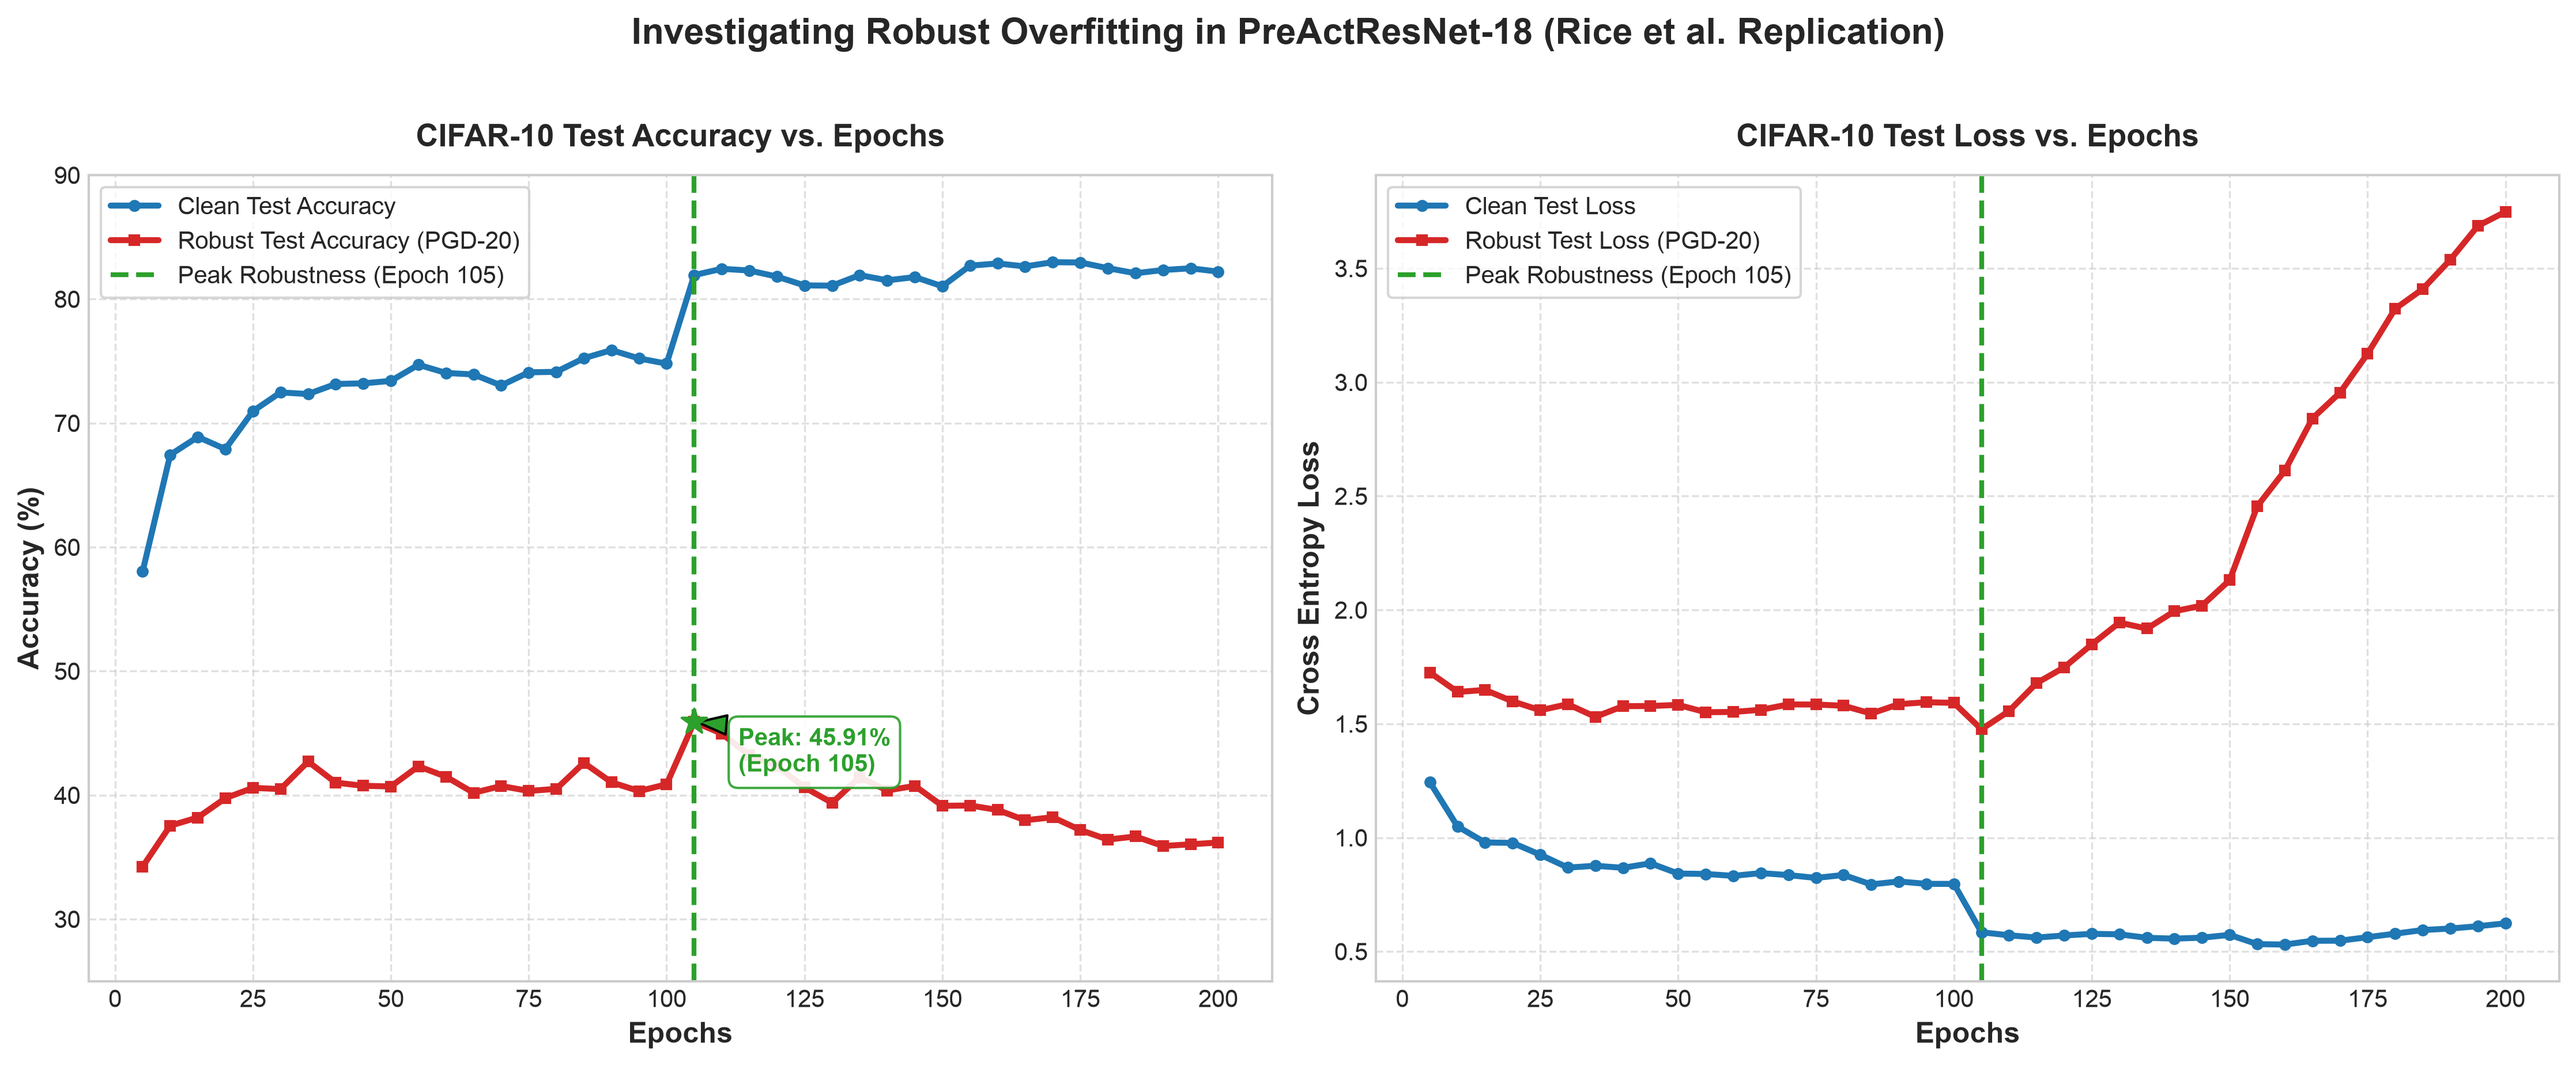
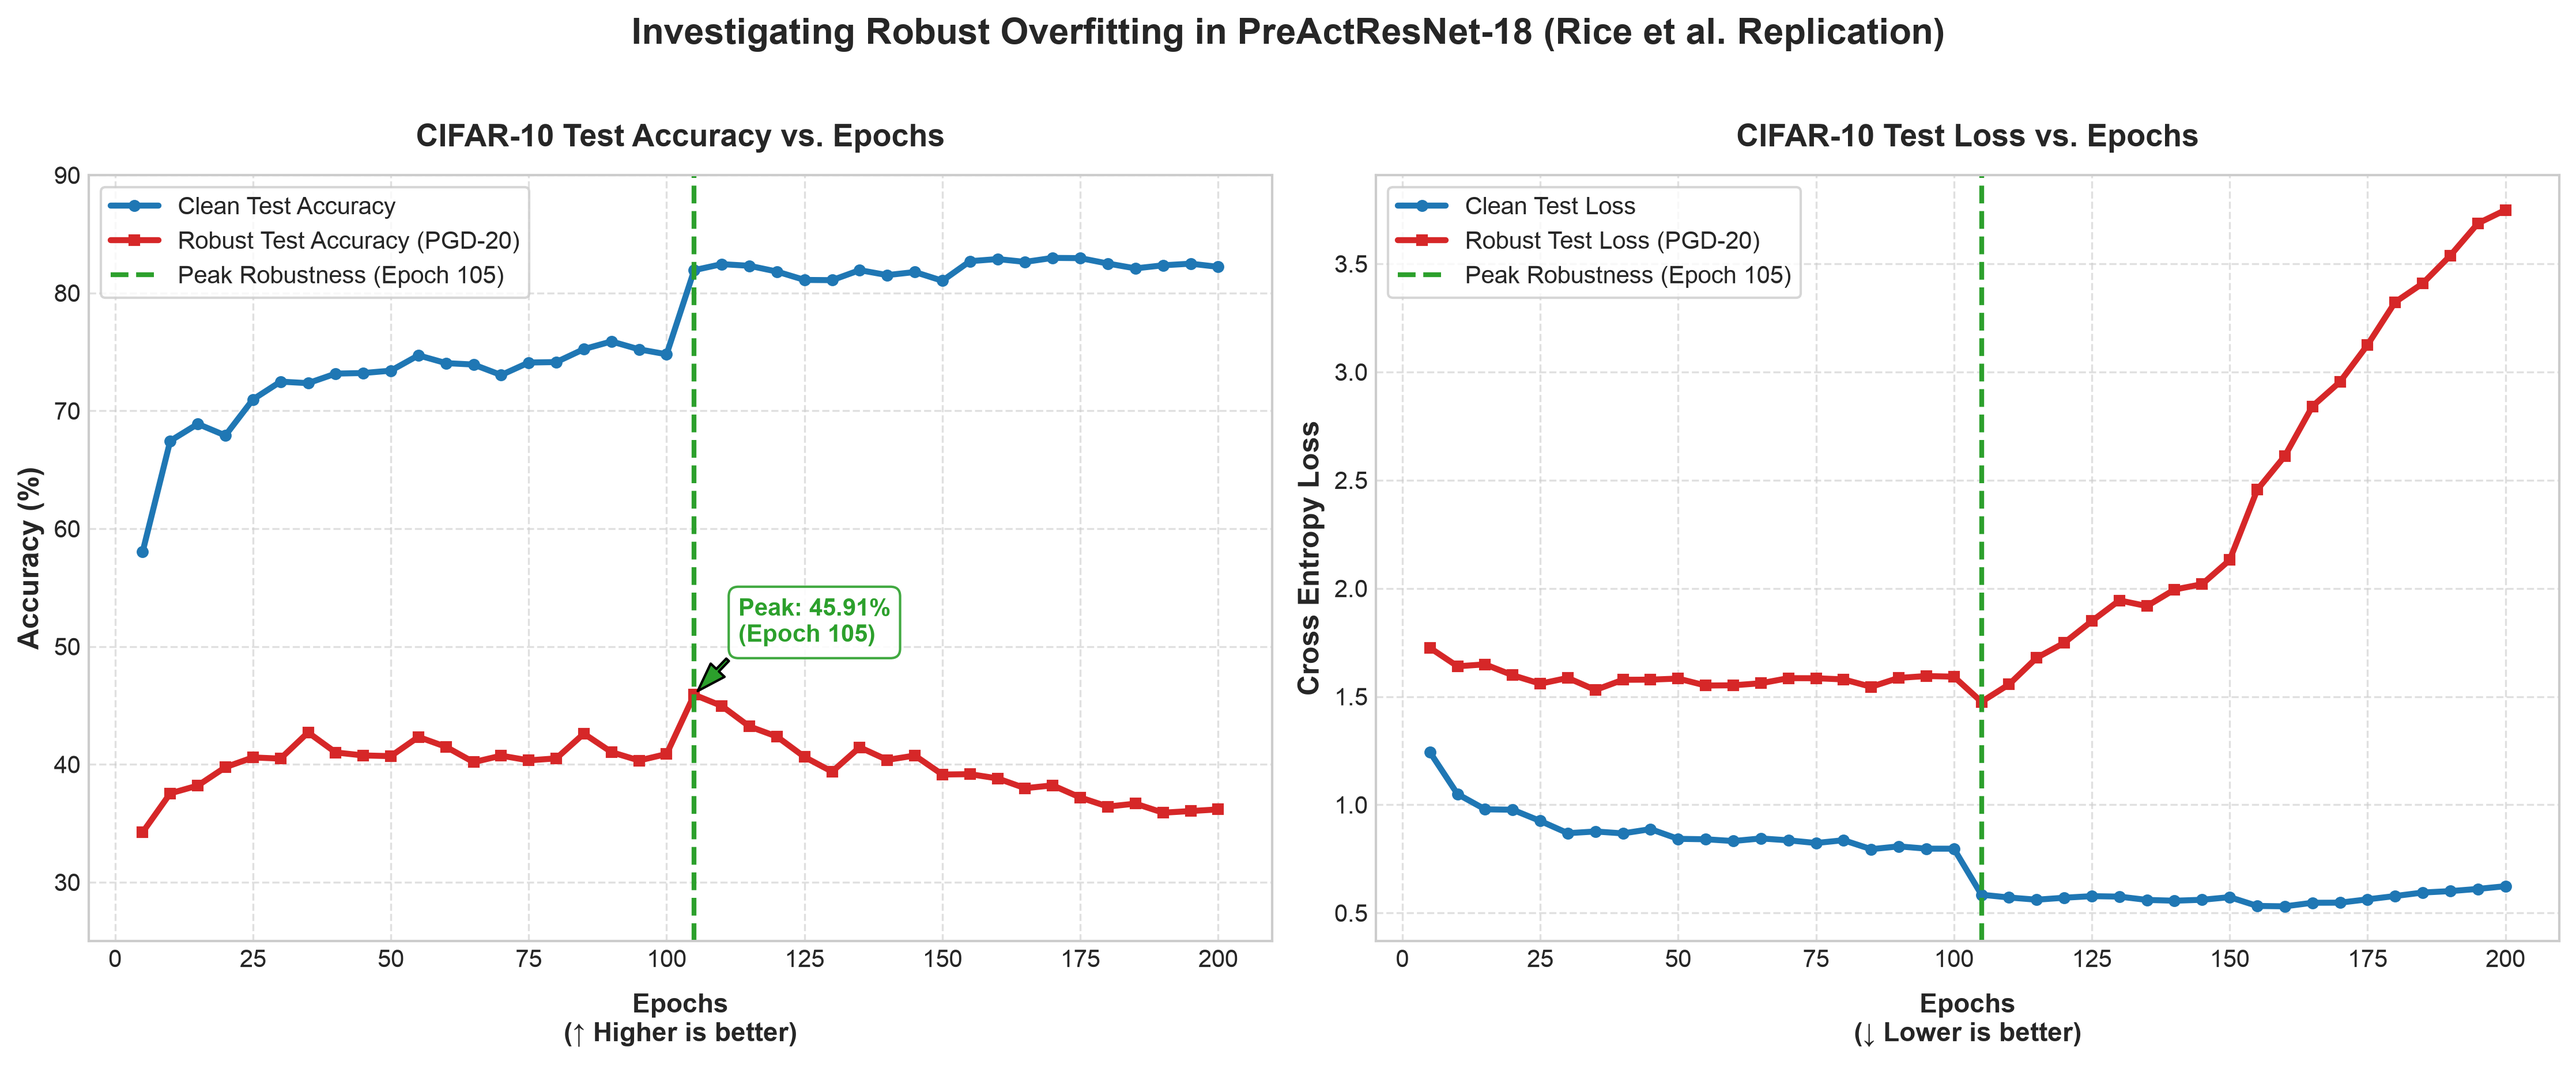
Commit: Refactor plot_results & Update Report/Figure
1. Refactor scripts/plot_results.py to separate CSV loading and plotting: added load_evaluation_data, plot_accuracy_subplot, and plot_loss_subplot, improved annotation placement, axis labels, and plotting style; plot_results now orchestrates and saves the figure.
2. Updated Report/progress.md with expanded Week 5 evaluation details, deliverables, and a HuggingFace checkpoints link.
3. Replaced Report/robust_overfitting_curves.png with an updated visualization reflecting the evaluation results.

diff --git a/scripts/plot_results.py b/scripts/plot_results.py
@@ -11,67 +11,85 @@ import sys
 sys.path.insert(0, os.path.abspath(os.path.join(os.path.dirname(__file__), '..')))
 import matplotlib.pyplot as plt
 
-def plot_results(csv_path='Report/evaluation_results.csv', output_path='Report/robust_overfitting_curves.png'):
-    epochs = []
-    clean_accs = []
-    robust_accs = []
-    clean_losses = []
-    robust_losses = []
 
+def load_evaluation_data(csv_path):
+    """
+    Loads evaluation metrics from CSV file.
+    Returns a dictionary containing lists for epochs, accuracies, and losses.
+    """
+    data = {
+        'epochs': [],
+        'clean_accs': [],
+        'robust_accs': [],
+        'clean_losses': [],
+        'robust_losses': []
+    }
     with open(csv_path, mode='r') as f:
         reader = csv.DictReader(f)
         for row in reader:
-            epochs.append(int(row['epoch']))
-            clean_accs.append(float(row['clean_acc']) * 100)
-            robust_accs.append(float(row['robust_acc']) * 100)
-            clean_losses.append(float(row['clean_loss']))
-            robust_losses.append(float(row['robust_loss']))
+            data['epochs'].append(int(row['epoch']))
+            data['clean_accs'].append(float(row['clean_acc']) * 100)
+            data['robust_accs'].append(float(row['robust_acc']) * 100)
+            data['clean_losses'].append(float(row['clean_loss']))
+            data['robust_losses'].append(float(row['robust_loss']))
+    return data
 
-    # Find peak robust accuracy
-    max_robust_acc = max(robust_accs)
-    max_idx = robust_accs.index(max_robust_acc)
-    best_epoch = epochs[max_idx]
 
-    plt.style.use('seaborn-v0_8-whitegrid' if 'seaborn-v0_8-whitegrid' in plt.style.available else 'default')
-    fig, (ax1, ax2) = plt.subplots(1, 2, figsize=(15, 6), dpi=300)
-
-    # Subplot 1: Accuracy
-    ax1.plot(epochs, clean_accs, label='Clean Test Accuracy', color='#1f77b4', linewidth=2.5, marker='o', markersize=4)
-    ax1.plot(epochs, robust_accs, label='Robust Test Accuracy (PGD-20)', color='#d62728', linewidth=2.5, marker='s', markersize=4)
+def plot_accuracy_subplot(ax, data, best_epoch, max_robust_acc):
+    """Plots Subplot 1: Clean vs. Robust Accuracy across epochs."""
+    ax.plot(data['epochs'], data['clean_accs'], label='Clean Test Accuracy', color='#1f77b4', linewidth=2.5, marker='o', markersize=4)
+    ax.plot(data['epochs'], data['robust_accs'], label='Robust Test Accuracy (PGD-20)', color='#d62728', linewidth=2.5, marker='s', markersize=4)
 
     # Highlight Peak Robust Accuracy
-    ax1.axvline(x=best_epoch, color='#2ca02c', linestyle='--', linewidth=2, label=f'Peak Robustness (Epoch {best_epoch})')
-    ax1.scatter([best_epoch], [max_robust_acc], color='#2ca02c', s=120, zorder=5, marker='*')
-    ax1.annotate(f'Peak: {max_robust_acc:.2f}%\n(Epoch {best_epoch})', 
+    ax.axvline(x=best_epoch, color='#2ca02c', linestyle='--', linewidth=2, label=f'Peak Robustness (Epoch {best_epoch})')
+    ax.annotate(f'Peak: {max_robust_acc:.2f}%\n(Epoch {best_epoch})', 
                  xy=(best_epoch, max_robust_acc), 
-                 xytext=(best_epoch + 8, max_robust_acc - 4),
+                 xytext=(best_epoch + 8, max_robust_acc + 4.5),
                  arrowprops=dict(facecolor='#2ca02c', shrink=0.08, width=1.5, headwidth=8),
                  fontsize=10, fontweight='bold', color='#2ca02c',
                  bbox=dict(boxstyle='round,pad=0.4', facecolor='white', edgecolor='#2ca02c', alpha=0.9))
 
-    ax1.set_xlabel('Epochs', fontsize=12, fontweight='bold')
-    ax1.set_ylabel('Accuracy (%)', fontsize=12, fontweight='bold')
-    ax1.set_title('CIFAR-10 Test Accuracy vs. Epochs', fontsize=13, fontweight='bold', pad=12)
-    ax1.legend(frameon=True, facecolor='white', edgecolor='#cccccc', fontsize=10)
-    ax1.set_ylim(25, 90)
-    ax1.grid(True, linestyle='--', alpha=0.6)
+    ax.set_xlabel('Epochs\n(↑ Higher is better)', fontsize=11, fontweight='bold', labelpad=8)
+    ax.set_ylabel('Accuracy (%)', fontsize=12, fontweight='bold')
+    ax.set_title('CIFAR-10 Test Accuracy vs. Epochs', fontsize=13, fontweight='bold', pad=12)
+    ax.legend(frameon=True, facecolor='white', edgecolor='#cccccc', fontsize=10)
+    ax.set_ylim(25, 90)
+    ax.grid(True, linestyle='--', alpha=0.6)
 
-    # Subplot 2: Loss
-    ax2.plot(epochs, clean_losses, label='Clean Test Loss', color='#1f77b4', linewidth=2.5, marker='o', markersize=4)
-    ax2.plot(epochs, robust_losses, label='Robust Test Loss (PGD-20)', color='#d62728', linewidth=2.5, marker='s', markersize=4)
-    ax2.axvline(x=best_epoch, color='#2ca02c', linestyle='--', linewidth=2, label=f'Peak Robustness (Epoch {best_epoch})')
 
-    ax2.set_xlabel('Epochs', fontsize=12, fontweight='bold')
-    ax2.set_ylabel('Cross Entropy Loss', fontsize=12, fontweight='bold')
-    ax2.set_title('CIFAR-10 Test Loss vs. Epochs', fontsize=13, fontweight='bold', pad=12)
-    ax2.legend(frameon=True, facecolor='white', edgecolor='#cccccc', fontsize=10)
-    ax2.grid(True, linestyle='--', alpha=0.6)
+def plot_loss_subplot(ax, data, best_epoch):
+    """Plots Subplot 2: Clean vs. Robust Loss across epochs."""
+    ax.plot(data['epochs'], data['clean_losses'], label='Clean Test Loss', color='#1f77b4', linewidth=2.5, marker='o', markersize=4)
+    ax.plot(data['epochs'], data['robust_losses'], label='Robust Test Loss (PGD-20)', color='#d62728', linewidth=2.5, marker='s', markersize=4)
+    ax.axvline(x=best_epoch, color='#2ca02c', linestyle='--', linewidth=2, label=f'Peak Robustness (Epoch {best_epoch})')
+
+    ax.set_xlabel('Epochs\n(↓ Lower is better)', fontsize=11, fontweight='bold', labelpad=8)
+    ax.set_ylabel('Cross Entropy Loss', fontsize=12, fontweight='bold')
+    ax.set_title('CIFAR-10 Test Loss vs. Epochs', fontsize=13, fontweight='bold', pad=12)
+    ax.legend(frameon=True, facecolor='white', edgecolor='#cccccc', fontsize=10)
+    ax.grid(True, linestyle='--', alpha=0.6)
+
+
+def plot_results(csv_path='Report/evaluation_results.csv', output_path='Report/robust_overfitting_curves.png'):
+    """Main orchestrator function for loading evaluation metrics and creating the figure."""
+    data = load_evaluation_data(csv_path)
+
+    max_robust_acc = max(data['robust_accs'])
+    max_idx = data['robust_accs'].index(max_robust_acc)
+    best_epoch = data['epochs'][max_idx]
+
+    plt.style.use('seaborn-v0_8-whitegrid' if 'seaborn-v0_8-whitegrid' in plt.style.available else 'default')
+    fig, (ax1, ax2) = plt.subplots(1, 2, figsize=(15, 6), dpi=300)
+
+    plot_accuracy_subplot(ax1, data, best_epoch, max_robust_acc)
+    plot_loss_subplot(ax2, data, best_epoch)
 
     plt.suptitle('Investigating Robust Overfitting in PreActResNet-18 (Rice et al. Replication)', fontsize=15, fontweight='bold', y=1.02)
     plt.tight_layout()
 
     plt.savefig(output_path, dpi=300, bbox_inches='tight')
     print(f"Chart saved successfully as {output_path}")
+
 
 if __name__ == '__main__':
     plot_results()

diff --git a/Report/progress.md b/Report/progress.md
@@ -57,14 +57,21 @@
 ---
 
 ## Week 5 (Completed)
-* **Progress Report:** On Friday, I set up SSH authentication, launched an NVIDIA A10 GPU instance on Lambda Labs, verified environment dependencies and GPU capabilities with [`scripts/verify_setup.py`](../scripts/verify_setup.py), and ran a 1-epoch diagnostic smoke test to confirm checkpoint writing. I then launched the full 200-epoch PGD-10 adversarial training job inside a persistent `tmux` session on Lambda Labs (~2.3 mins per epoch, total run time ~8 hours). The training run successfully completed all 200 epochs, and we observed clear robust overfitting: test robust accuracy peaked at **47.85%** at Epoch 105 (right after the first learning rate decay) before declining to **41.26%** by Epoch 200, while train robust accuracy reached **89.71%**. All 40 model weight checkpoints (`epoch_5.pt` through `epoch_200.pt`, totaling ~3.57 GB) and TensorBoard log files were successfully downloaded to our local workspace. To prevent exceeding GitHub size limits, we updated [`.gitignore`](../.gitignore) to exclude `Checkpoints/` and `*.pt` files from version control while keeping all checkpoints stored locally for evaluation.
+* **Progress Report:** Last Friday, I launched the full 200-epoch PGD-10 adversarial training run on a 1x NVIDIA A10 GPU instance on Lambda Labs inside a persistent `tmux` session (~2.3 mins per epoch, ~8 hours total), preceded by a brief SSH setup and 1-epoch diagnostic smoke test. The run completed all 200 epochs with clear robust overfitting observed. All 40 checkpoints (~3.57 GB) were downloaded locally, excluded from version control via `.gitignore`, and uploaded to HuggingFace for public access. This week, I created [`scripts/evaluate.py`](../scripts/evaluate.py) to run PGD-20 adversarial evaluation across all 40 checkpoints on the CIFAR-10 test set and launched it on Lambda Labs, confirming robust overfitting as described by Rice et al. (2020). Metrics were saved to [`evaluation_results.csv`](evaluation_results.csv) and visualized in [`robust_overfitting_curves.png`](robust_overfitting_curves.png) using [`scripts/plot_results.py`](../scripts/plot_results.py).
 
-  Today, I created [`scripts/evaluate.py`](../scripts/evaluate.py) to run PGD-20 adversarial evaluation across all 40 model checkpoints (`epoch_5.pt` through `epoch_200.pt`) on the CIFAR-10 test set. After verifying [`scripts/evaluate.py`](../scripts/evaluate.py) locally with `--diagnostic`, we launched the full evaluation run on a 1x NVIDIA A10 GPU instance on Lambda Labs. The evaluation results clearly confirm the robust overfitting phenomenon described by Rice et al. (2020): test robust accuracy under PGD-20 reached its peak at **45.91%** at Epoch 105 (with clean test accuracy of **81.94%** and robust loss of **1.4761**), before steadily degrading to **36.18%** by Epoch 200 (a drop of **9.73 percentage points**), while robust loss exploded to **3.7487**. Metrics were logged to [`evaluation_results.csv`](evaluation_results.csv) and visualized using [`scripts/plot_results.py`](../scripts/plot_results.py), generating [`robust_overfitting_curves.png`](robust_overfitting_curves.png) to clearly highlight the early stopping candidate point at Epoch 105.
+  **Training results (PGD-10):**
+  * Test robust accuracy: peaked at **47.85%** at Epoch 105, declined to **41.26%** by Epoch 200
+  * Train robust accuracy: **89.71%** at Epoch 200
+
+  **Evaluation results (PGD-20):**
+  * Test robust accuracy: peaked at **45.91%** at Epoch 105, dropped to **36.18%** by Epoch 200 (−**9.73 percentage points**)
+  * Clean accuracy at Epoch 105: **81.94%**
+  * Robust loss: **1.4761** at Epoch 105 → **3.7487** at Epoch 200
 
 * **Deliverables:**
-  * [`setup_lambda_labs.md`](../setup_lambda_labs.md): Guide for Lambda Labs deployment, SSH setup, tmux, and TensorBoard port forwarding.
-  * [`.gitignore`](../.gitignore): Updated to ignore raw datasets, logs, and model checkpoint files.
-  * [`scripts/evaluate.py`](../scripts/evaluate.py): PyTorch evaluation script running PGD-20 attacks across checkpoints.
-  * [`evaluation_results.csv`](evaluation_results.csv): Raw evaluation metrics (clean loss, clean accuracy, robust loss, robust accuracy, evaluation runtime) for all 40 checkpoints.
-  * [`scripts/plot_results.py`](../scripts/plot_results.py): Matplotlib visualization script for generating performance curves.
-  * [`robust_overfitting_curves.png`](robust_overfitting_curves.png): Chart showing clean vs. robust accuracy and loss curves highlighting the peak robust accuracy at Epoch 105.
+  * [`.gitignore`](../.gitignore): Excludes large files (datasets, checkpoints) from version control.
+  * [Model checkpoints](https://huggingface.co/KaiwenDu/robust-overfitting-checkpoints/tree/main): All 40 checkpoints (~3.57 GB) hosted on HuggingFace.
+  * [`scripts/evaluate.py`](../scripts/evaluate.py): Evaluates all 40 checkpoints using PGD-20.
+  * [`evaluation_results.csv`](evaluation_results.csv): Accuracy and loss metrics for all 40 checkpoints.
+  * [`scripts/plot_results.py`](../scripts/plot_results.py): Plots clean and robust accuracy curves.
+  * [`robust_overfitting_curves.png`](robust_overfitting_curves.png): Chart showing robust overfitting with peak at Epoch 105.
